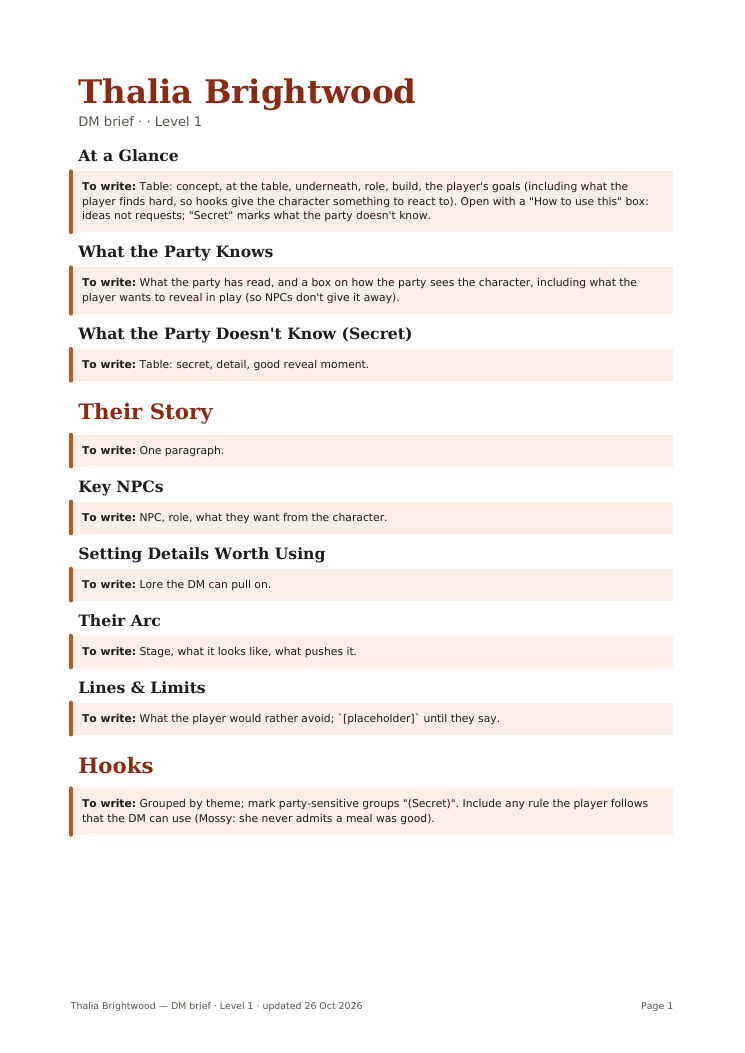
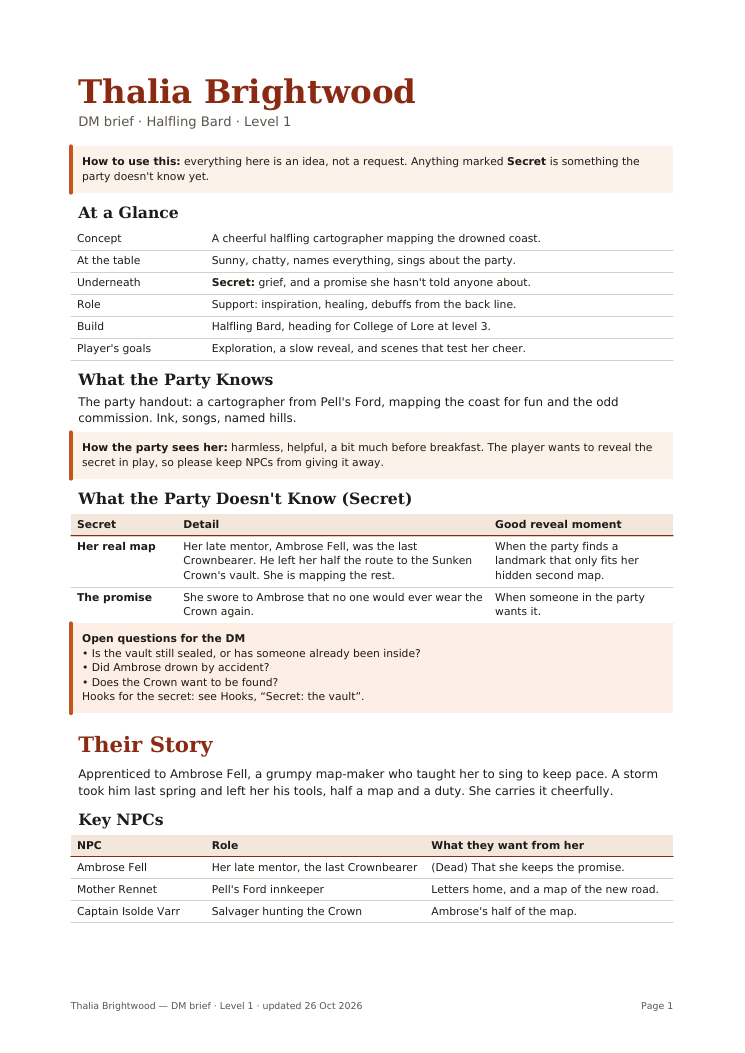
docs: use a filled-in sample for the handout and DM brief screenshots

Changed region(s): [[0.0926, 0.0912, 0.9262, 0.8813], [0.3396, 0.0912, 0.3705, 0.1216]]

diff --git a/README.md b/README.md
@@ -10,9 +10,8 @@ against golden baselines so layouts don't drift.
 
 ## What it makes
 
-The party workbook is a fillable PDF each player fills in. These pages are from a
-brand-new character, so the other documents are still blank starters, with a prompt
-saying what goes in each section.
+The party workbook is a fillable PDF each player fills in (top row). The party handout
+and the DM brief (bottom row) are from a made-up sample character.
 
 <p align="center">
   <img src="docs/images/workbook-overview.png" alt="Workbook cover page with a three-step guide and progress tracker" width="45%">
